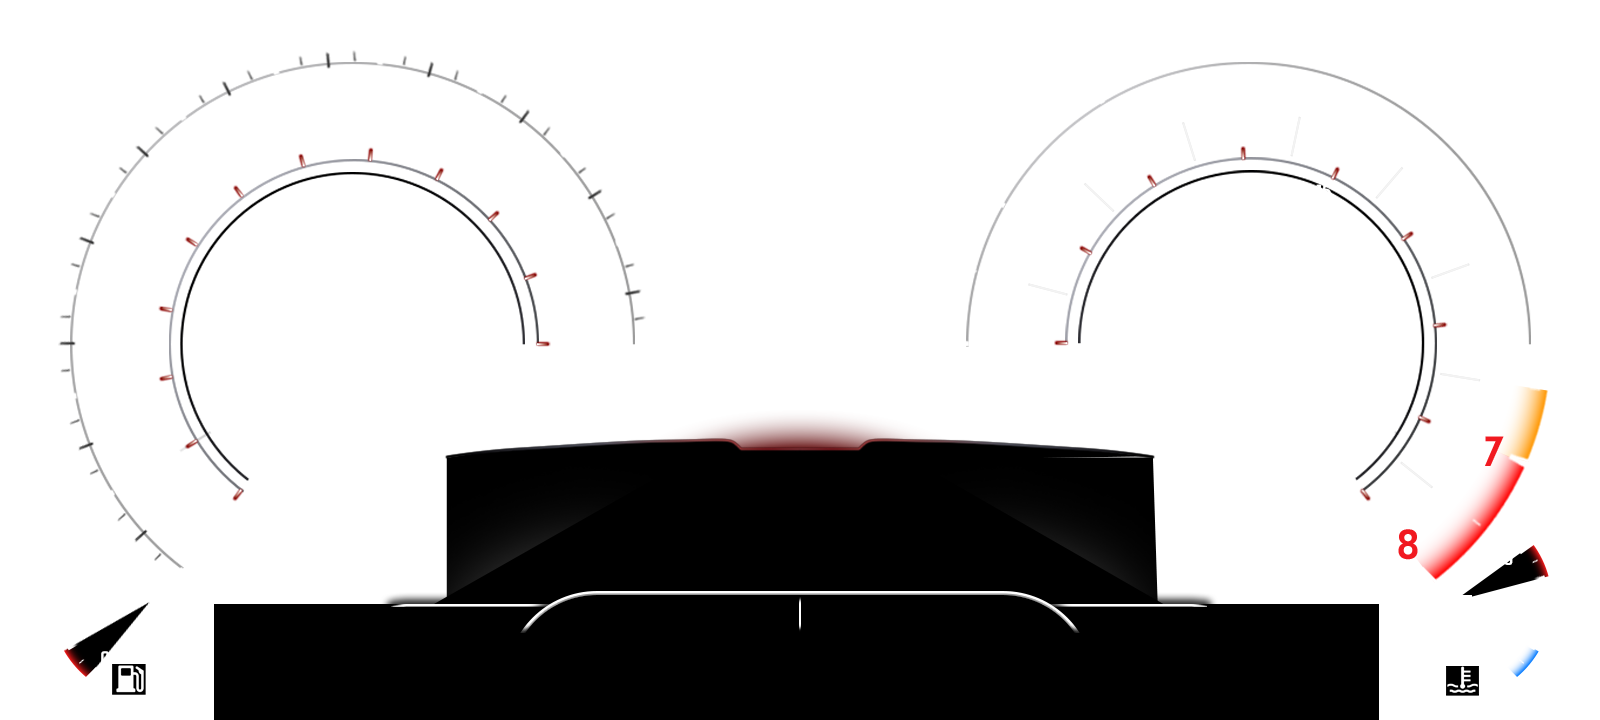
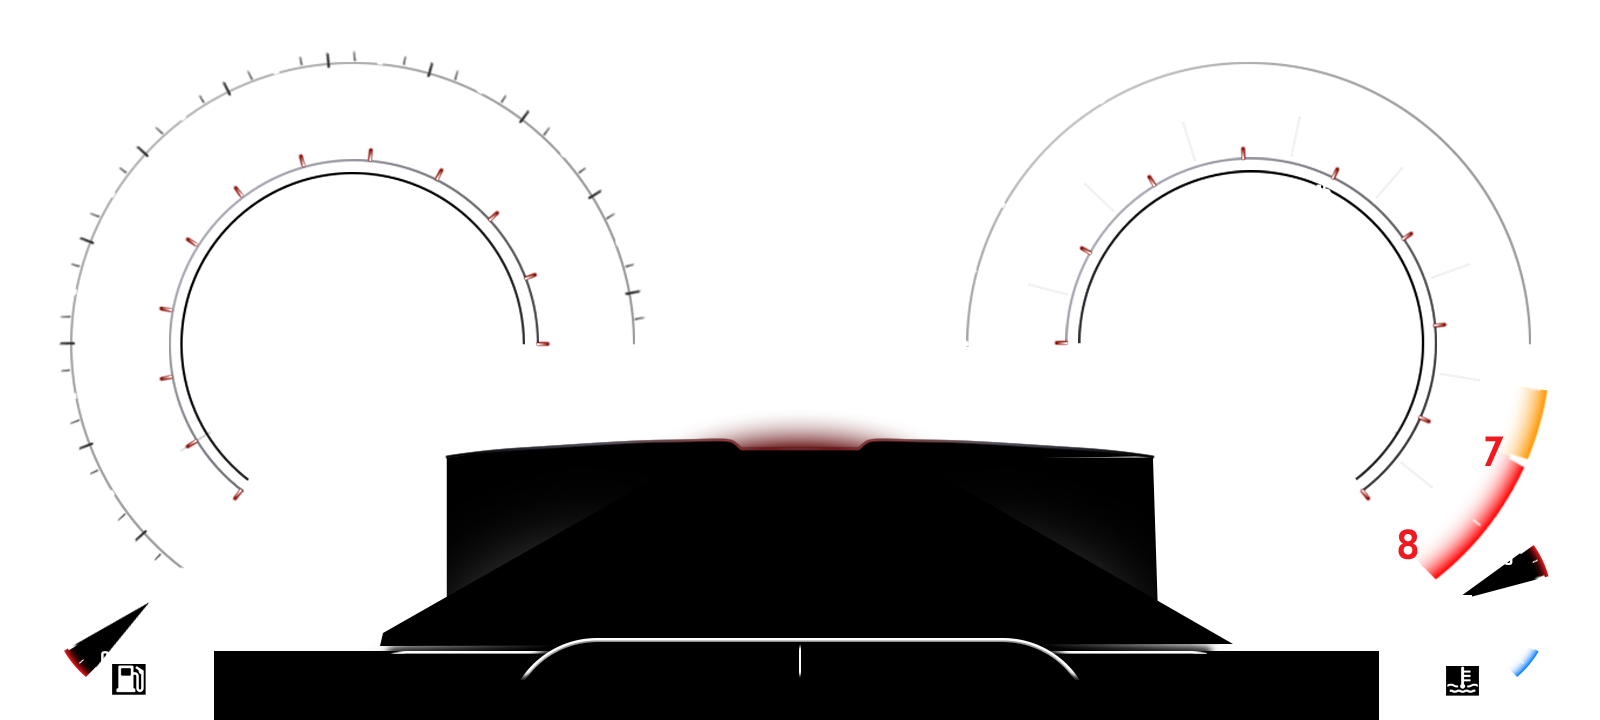
Reverse gear: dedicated single-feed rear camera, 360 view now manual-only
Reverse used to auto-open the full stitched Camera360Screen; that's
not what a real backup camera shows. RearCameraScreen now auto-opens
on reverse gear instead (cameraFeed2 raw, no stitching/calibration
UI), and Camera360Screen only opens via the 360 icon tap.

toggleCamera360() keeps the two mutually exclusive when the driver
manually opens the 360 view mid-reverse: it hides the rear-cam screen
first, and closing it hands back to the rear cam if still in reverse
rather than dropping to the plain dash underneath.

Changed region(s): [[0.125, 0.825, 0.875, 0.9472], [0.375, 0.7944, 0.625, 0.825]]

diff --git a/ultima-app/src/main.qml b/ultima-app/src/main.qml
@@ -42,9 +42,14 @@ Window {
         if (open) cameraGridScreen.open()
         else cameraGridScreen.close()
     }
+    // Routed through toggleCamera360() (defined near icon360 below) rather
+    // than driving camera360Screen directly — a plain open()/close() here
+    // would leave rearCameraScreen out of sync with reverseGear (both open
+    // at once, or the rear cam never coming back) whenever this fires
+    // during reverse. Only acts if the requested state differs from
+    // current, since toggleCamera360() is a toggle, not a set.
     function debugSetCamera360(open) {
-        if (open) camera360Screen.open()
-        else camera360Screen.close()
+        if (camera360Screen.visible !== open) toggleCamera360()
     }
 
     Timer {
@@ -410,7 +415,7 @@ Window {
     // own slide/fade state, avoids that: every consumer's "I want this feed
     // on" is OR'd together at one single point of truth instead.
     Binding { target: cameraFeed1; property: "active"; value: cameraGridScreen.isOpen || camera360Screen.visible }
-    Binding { target: cameraFeed2; property: "active"; value: cameraGridScreen.isOpen || camera360Screen.visible }
+    Binding { target: cameraFeed2; property: "active"; value: cameraGridScreen.isOpen || camera360Screen.visible || rearCameraScreen.visible }
     Binding { target: cameraFeed3; property: "active"; value: cameraGridScreen.isOpen || camera360Screen.visible || leftCamOverlayActive }
     Binding { target: cameraFeed4; property: "active"; value: cameraGridScreen.isOpen || camera360Screen.visible || rightCamOverlayActive }
 
@@ -505,6 +510,26 @@ Window {
     // Hidden while the diagnostic screen or camera grid screen is
     // open/opening — it lives at the same on-screen spot as diagnostic
     // content, and it's the wrong action to expose over either screen anyway.
+    //
+    // While reverseGear has RearCameraScreen up, this acts as an override
+    // rather than a plain toggle: opening Camera360Screen hides the rear
+    // cam first (both are full-screen overlays at the same z, and a real
+    // backup camera shouldn't stay layered under the surround view), and
+    // closing Camera360Screen again hands back to the rear cam if still in
+    // reverse, rather than dropping to the plain dash underneath. Also used
+    // by debugSetCamera360() above so on-device SSH testing (no
+    // touchscreen) exercises this same reverse-override behavior instead
+    // of a naive direct open()/close().
+    function toggleCamera360() {
+        if (camera360Screen.visible) {
+            camera360Screen.close()
+            if (reverseGear) rearCameraScreen.open()
+        } else {
+            if (reverseGear) rearCameraScreen.close()
+            camera360Screen.open()
+        }
+    }
+
     Image {
         id: icon360
         x: 280 - width / 2; y: 666 - height / 2
@@ -517,7 +542,7 @@ Window {
             id: icon360Area
             anchors.fill: parent
             anchors.margins: -10
-            onClicked: camera360Screen.visible ? camera360Screen.close() : camera360Screen.open()
+            onClicked: toggleCamera360()
         }
     }
 
@@ -841,19 +866,43 @@ Window {
         id: cameraGridScreen
     }
 
-    // 360-degree camera view — opened/closed by tapping icon360 above, or
-    // automatically on reverse gear, like a real backup camera.
-    // Stacked above the time-set overlay; icon360 itself sits above this.
+    // 360-degree camera view — opened/closed only by tapping icon360 above;
+    // reverse gear used to auto-open this too, but a real backup camera
+    // shows the rear camera alone, not a stitched surround view, so reverse
+    // now drives RearCameraScreen below instead. Stacked above the time-set
+    // overlay; icon360 itself sits above this.
     Camera360Screen {
         id: camera360Screen
     }
 
-    // Reverse-gear auto-open/close for camera360Screen above. The
+    // Single rear-camera view — auto-opened/closed on reverse gear, like a
+    // real backup camera. toggleCamera360() (see icon360 above) is what
+    // actually keeps this and camera360Screen mutually exclusive when the
+    // driver swaps between them mid-reverse; declared after camera360Screen
+    // here only as a fallback so the more relevant view still paints on top
+    // in the brief cross-fade window, or if that invariant is ever broken.
+    RearCameraScreen {
+        id: rearCameraScreen
+    }
+
+    // Reverse-gear auto-open/close for rearCameraScreen above. The
     // !startupActive guard is load-bearing: the ~2s startup self-test sweeps
     // gear through every value (see gearIndicator's binding above), which
     // would otherwise pop the camera overlay open on every single boot.
+    // Skips the auto-open if camera360Screen is already up: that only
+    // happens if the driver opened it manually during a previous reverse
+    // (see toggleCamera360()) and never closed it before shifting out and
+    // back into reverse — without this check, re-entering reverse would
+    // pop rearCameraScreen open underneath/over it, breaking the two
+    // screens' mutual exclusivity.
     property bool reverseGear: !startupActive && sim.gear === 1
-    onReverseGearChanged: reverseGear ? camera360Screen.open() : camera360Screen.close()
+    onReverseGearChanged: {
+        if (reverseGear) {
+            if (!camera360Screen.visible) rearCameraScreen.open()
+        } else {
+            rearCameraScreen.close()
+        }
+    }
 
     // FPS overlay — top-left corner, above every screen this cluster shows
     // (diagnostic, camera grid, 360 view + its calibration panel, time-set)

diff --git a/ultima-app/src/RearCameraScreen.qml b/ultima-app/src/RearCameraScreen.qml
@@ -1,0 +1,87 @@
+import QtQuick 2.15
+import Ultima 1.0
+
+// Full-screen single-camera overlay, opened/closed automatically on reverse
+// gear (see main.qml's reverseGear) — a real backup camera shows the rear
+// camera alone, not a stitched surround view, so reverse gear drives this
+// screen instead of Camera360Screen. Shows cameraFeed2 raw (the "rear" feed
+// — see Camera360Screen.qml's [front, rear, left, right] feeds-order comment
+// for why index 1, cameraFeed2, is rear). Camera360Screen itself is
+// unchanged and still reachable manually via icon360 for the full 4-camera
+// surround view.
+Item {
+    id: root
+    anchors.fill: parent
+    z: 600  // same stacking spot Camera360Screen used for this role
+
+    // Driven by open()/close() rather than a plain visible flag, so the
+    // whole overlay cross-fades as one unit — same reasoning as
+    // Camera360Screen's opacity/visible pair.
+    opacity: 0
+    visible: opacity > 0
+    Behavior on opacity {
+        NumberAnimation { duration: 250; easing.type: Easing.OutCubic }
+    }
+
+    // Bounded wait for the first live frame after opening, before falling
+    // back to a black screen — same reasoning as Camera360Screen's fallback
+    // timer, scoped here to the single rear feed instead of all 4.
+    readonly property bool anyStreaming: cameraFeed2.streaming
+    property bool cameraTimedOut: false
+    Timer {
+        id: fallbackTimer
+        interval: 2000
+        onTriggered: cameraTimedOut = true
+    }
+    readonly property bool showPlaceholder: cameraFeed2.failed || cameraTimedOut
+    onAnyStreamingChanged: {
+        if (anyStreaming) {
+            fallbackTimer.stop()
+        } else {
+            cameraTimedOut = false
+            fallbackTimer.restart()
+        }
+    }
+
+    // cameraFeed2.active itself is driven centrally by main.qml (see its
+    // "Single owner of every CameraFeed's active state" comment) — visible
+    // (derived from opacity above) is what main.qml ORs into that, so
+    // open()/close() only need to drive this screen's own fade state.
+    function open() {
+        opacity = 1
+        cameraTimedOut = false
+        if (anyStreaming) {
+            fallbackTimer.stop()
+        } else {
+            fallbackTimer.restart()
+        }
+    }
+    function close() {
+        opacity = 0
+        fallbackTimer.stop()
+    }
+
+    // Swallow touches to the dash underneath while open.
+    MouseArea {
+        anchors.fill: parent
+    }
+
+    Rectangle {
+        anchors.fill: parent
+        color: "black"
+    }
+
+    // Raw rear feed, pillarboxed to whatever aspect ratio CameraFeed
+    // actually negotiated — same fit math as CameraGridScreen's per-
+    // quadrant CameraView, just sized to the full screen instead of a
+    // quadrant.
+    CameraView {
+        feed: cameraFeed2
+        anchors.centerIn: parent
+        height: parent.height
+        width: cameraFeed2.frameHeight > 0
+               ? Math.round(parent.height * (cameraFeed2.frameWidth / cameraFeed2.frameHeight))
+               : Math.round(parent.height * 16 / 9)
+        visible: !root.showPlaceholder
+    }
+}

diff --git a/GAUGE-CLUSTER.md b/GAUGE-CLUSTER.md
@@ -53,12 +53,13 @@ change as the app evolves and a stale copy is worse than no copy.
 
 The app consists of 9 QML files, all in `ultima-app/src/`:
 
-- **`main.qml`** — Root layout: 4 gauge needles over the Bavarian background layers, boost gauge (trapezoid black overlay with PSI readout), turn signal indicators, top indicator row (oil, check engine, beams, battery, coolant — warn icons flash at 300ms), gear indicator (Bahnschrift SemiBold font, P/R/N/1-7), odometer + trip odometer with reset button, touch feedback dot, 360-view tap icon. On startup, a ~2s self-test (`startupActive`/`startupFrac`/`startupFlash`) sweeps every needle to max and back and flashes every icon before handing off to live `sim.*` values — real gauge/warning bindings are `startupActive ? <test value> : sim.<prop>`. Includes a periodic (30s) save timer for odometer persistence via `sim.save()`. All gauge values bind to the `sim` context property, which is the `CanBus` C++ object, not this file's `SimEngine.qml`. Hosts `SetTimeScreen`, `DiagnosticScreen`, `CameraGridScreen`, and `Camera360Screen` as overlays; a swipe left/right on the main dash opens `DiagnosticScreen`/`CameraGridScreen` respectively.
+- **`main.qml`** — Root layout: 4 gauge needles over the Bavarian background layers, boost gauge (trapezoid black overlay with PSI readout), turn signal indicators, top indicator row (oil, check engine, beams, battery, coolant — warn icons flash at 300ms), gear indicator (Bahnschrift SemiBold font, P/R/N/1-7), odometer + trip odometer with reset button, touch feedback dot, 360-view tap icon. On startup, a ~2s self-test (`startupActive`/`startupFrac`/`startupFlash`) sweeps every needle to max and back and flashes every icon before handing off to live `sim.*` values — real gauge/warning bindings are `startupActive ? <test value> : sim.<prop>`. Includes a periodic (30s) save timer for odometer persistence via `sim.save()`. All gauge values bind to the `sim` context property, which is the `CanBus` C++ object, not this file's `SimEngine.qml`. Hosts `SetTimeScreen`, `DiagnosticScreen`, `CameraGridScreen`, `Camera360Screen`, and `RearCameraScreen` as overlays; a swipe left/right on the main dash opens `DiagnosticScreen`/`CameraGridScreen` respectively.
 - **`CircularGauge.qml`** — Reusable needle gauge component: rotates `needle.png` over a transparent item positioned at the gauge center. Configurable start/end angles, counter-clockwise mode, needle size/pivot, optional debug arc overlay
 - **`SetTimeScreen.qml`** — Time-set overlay that calls into `SystemClock` (the `systemClock` context property) to push a new wall-clock time
 - **`DiagnosticScreen.qml`** — Full-screen grid of every CAN2 signal this build actually decodes today (ECU + MCE18 — see below), showing the raw decoded value/enum behind each dash gauge or icon rather than just its needle position or lit/unlit state. Opened by swiping left anywhere on the main dash, closed by swiping right
-- **`Camera360Screen.qml`** — Full-screen camera overlay, toggled open/closed (250ms cross-fade via a `Behavior on opacity`) by tapping the 360 icon (`icon360`) on the main dash, or automatically on reverse gear (`main.qml`'s `reverseGear`). Feeds the 4 raw streams from the mycam004m driver (`cameraFeed1`..`cameraFeed4` context properties set up in `main.cpp`, each a `CameraFeed` opening one of the driver's stable `/dev/mycam/cam1`..`cam4` symlinks — fake or real backend, see `~/code/mycam004m/docs/ultima-app-integration.md`) into `SurroundView` (`surroundview.h`), which stitches them into one top-down birds-eye composite via a precomputed per-camera fisheye/ground-plane warp mesh + feather blend. Calibration (per-camera position/yaw/pitch/FOV, vehicle dimensions, ground extent, wedge overlap) defaults to a placeholder rig (`cameracalibration.cpp`'s `defaultCalibration()`) but is live-tunable and persisted via the gear-icon settings panel (`CalibrationSettingsScreen.qml`) — seams/ground-plane scale are only exactly right once real measured camera-mount data replaces the placeholder. `simulated_cameras.png` is a whole-screen fallback shown only if every feed has failed or none produce a frame within 2s of opening.
-- **`CameraGridScreen.qml`** — Persistent swipeable screen (mirror of `DiagnosticScreen`, reached by swiping right off the main dash) showing the same 4 mycam004m feeds as a plain 2x2 grid, one quadrant per physical camera, no stitching — a raw-feed debug view alongside `Camera360Screen`'s stitched one. Separate file/screen rather than a mode of `Camera360Screen` so that screen's opacity-fade + reverse-gear auto-open behavior stays untouched.
+- **`Camera360Screen.qml`** — Full-screen camera overlay, toggled open/closed (250ms cross-fade via a `Behavior on opacity`) only by tapping the 360 icon (`icon360`) on the main dash — reverse gear no longer auto-opens this screen (see `RearCameraScreen.qml` below). Feeds the 4 raw streams from the mycam004m driver (`cameraFeed1`..`cameraFeed4` context properties set up in `main.cpp`, each a `CameraFeed` opening one of the driver's stable `/dev/mycam/cam1`..`cam4` symlinks — fake or real backend, see `~/code/mycam004m/docs/ultima-app-integration.md`) into `SurroundView` (`surroundview.h`), which stitches them into one top-down birds-eye composite via a precomputed per-camera fisheye/ground-plane warp mesh + feather blend. Calibration (per-camera position/yaw/pitch/FOV, vehicle dimensions, ground extent, wedge overlap) defaults to a placeholder rig (`cameracalibration.cpp`'s `defaultCalibration()`) but is live-tunable and persisted via the gear-icon settings panel (`CalibrationSettingsScreen.qml`) — seams/ground-plane scale are only exactly right once real measured camera-mount data replaces the placeholder. `simulated_cameras.png` is a whole-screen fallback shown only if every feed has failed or none produce a frame within 2s of opening.
+- **`RearCameraScreen.qml`** — Full-screen single-camera overlay, opened/closed automatically on reverse gear (`main.qml`'s `reverseGear`), like a real backup camera. Shows `cameraFeed2` (the rear feed — see `Camera360Screen.qml`'s `[front, rear, left, right]` feeds-order comment) raw via `CameraView`, no stitching, no calibration UI. Same 250ms opacity cross-fade and 2s live-frame timeout-to-blank pattern as `Camera360Screen`, scoped to just the one feed.
+- **`CameraGridScreen.qml`** — Persistent swipeable screen (mirror of `DiagnosticScreen`, reached by swiping right off the main dash) showing the same 4 mycam004m feeds as a plain 2x2 grid, one quadrant per physical camera, no stitching — a raw-feed debug view alongside `Camera360Screen`'s stitched one. Separate file/screen rather than a mode of `Camera360Screen` so that screen's opacity-fade behavior stays untouched.
 - **`CalibrationSettingsScreen.qml`** — Slide-in panel (opened from `Camera360Screen`'s gear icon) for live-tuning `SurroundView`'s stitching parameters; every edit writes to `CalibrationStore` (`calibrationstore.h`, persisted to `/data/calibration.json`, same load/save pattern as `OdoStore`) and re-warps the mesh immediately via `calibrationChanged()`, no restart needed. Fixed lens/render properties (image size, principal point, fisheye k1-k4, mesh grid resolution) aren't exposed here.
 - **`CalibrationParamRow.qml`** — Reusable row (label, live value, -/+ steppers with press-and-hold repeat) used throughout `CalibrationSettingsScreen`; touch-friendly for the small numeric steps calibration tuning needs.
 - **`SimEngine.qml`** — **Not loaded at runtime.** Bundled only as a reference/potential `--demo` fallback; it predates `CanBus` and was the original simulated data source before real CAN integration. Speed wanders through city/suburban/highway/stop phases, RPM derived from gear ratios, automatic gear selection (P/R/N/1-7), fuel consumption, coolant temp, boost pressure (0-30 PSI). `CanBus::simulateTick()` reimplements this same phase logic directly in C++ so it can drive the live `sim` property — see [CAN Bus Integration](#can-bus-integration-syvecs-s7)
